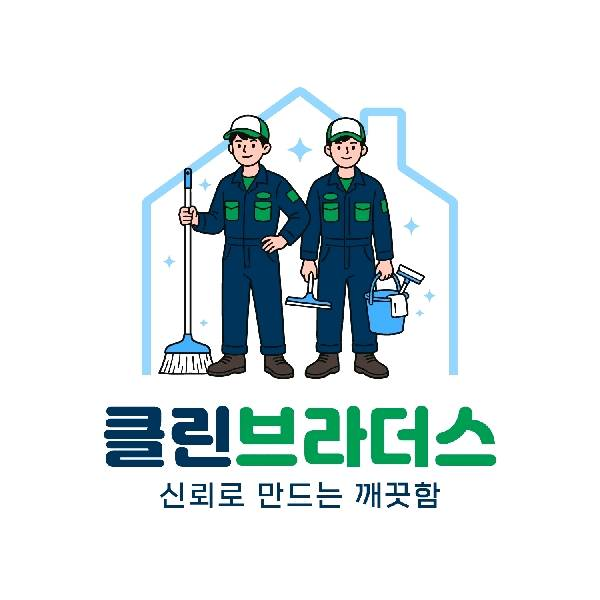
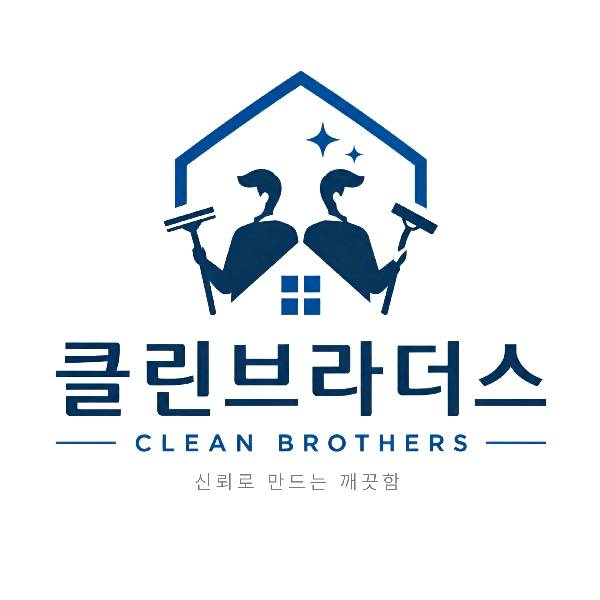
build(og): 회사별 OG 페이지 자동 갱신 [skip ci]

Changed region(s): [[0.09, 0.12, 0.93, 0.87]]

diff --git a/profile/cleanbrothers/index.html b/profile/cleanbrothers/index.html
@@ -1344,7 +1344,7 @@
   <section class="hero">
     <div class="hero-row">
       <div class="avatar">
-        <img src="https://iucicugxihxilcqtzrbk.supabase.co/storage/v1/object/public/company-logos/5a1572b7-299e-4e86-ae3f-95610c92ece3/logo_1783528498392.jpg" alt="클린브라더스">
+        <img src="https://iucicugxihxilcqtzrbk.supabase.co/storage/v1/object/public/company-logos/5a1572b7-299e-4e86-ae3f-95610c92ece3/logo_1784215126319.jpg" alt="클린브라더스">
       </div>
       <div class="hero-info">
         <span class="hero-tag" data-hero-tag>대표 직접 시공</span>
